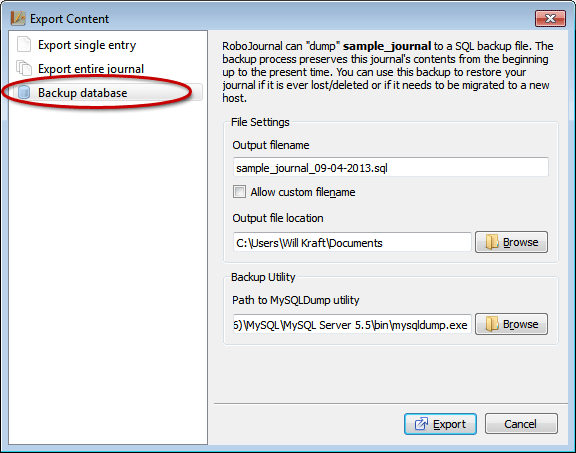
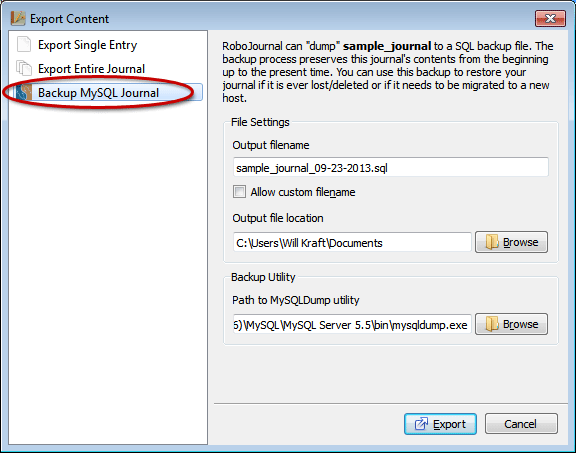
added new images to export.html

Changed region(s): [[0.0, 0.0927, 0.3438, 0.2472], [0.5625, 0.34, 0.5938, 0.4018], [0.7188, 0.9272, 0.75, 0.9581]]

diff --git a/doc/export.html b/doc/export.html
@@ -95,9 +95,9 @@ displayed with the selected entry already pre-loaded.</span></p>
 <p>Once invoked, the Export Content window is already configured to export the
 entry you previously selected on the RoboJournal main window: <img
 alt="Figure 3" src="img/screens/export_single.png" class="screenshot"
-height="453" width="576"><span class="caption">Figure 3: The <strong>Export
-single entry</strong> page allows you to export the current (selected) entry
-from the main window.</span></p>
+height="453" width="576"><span class="caption">Figure 3: The "Export Single
+Entry" page allows you to export the current (selected) entry from the main
+window.</span></p>
 
 <p>If you need to change any of the settings (including file type or export
 destination), you must do so before beginning the export operation. Unlike
@@ -115,8 +115,8 @@ RoboJournal main window.</p>
 
 <h3 id="L131">Single Export Options</h3>
 
-<p>The following table explains each option on the <strong>Export single
-entry</strong> page in greater detail:</p>
+<p>The following table explains each option on the Export Single Entry page in
+greater detail:</p>
 
 <table border="0">
   <col>
@@ -140,7 +140,7 @@ entry</strong> page in greater detail:</p>
         is created during the export operation. The <strong>HTML</strong>
         option produces a HTML4-compliant document that is viewable in any web
         browser. The <strong>Plain text</strong> option produces a text file
-        that is compatibe with any text editor (e.g. Vim, Notepad, Emacs,
+        that is compatible with any text editor (e.g. Vim, Notepad, Emacs,
         etc.). 
 
         <p>For best results, you should use HTML output because it preserves
@@ -162,7 +162,7 @@ entry</strong> page in greater detail:</p>
         title_entry date). You should leave this option enabled for best
         results because the resulting filename makes it easy to group exported
         entries from the same journal together and it provides a way for you to
-        easily reconize which journal an entry came from.</td>
+        easily recognize which journal an entry came from.</td>
     </tr>
     <tr>
       <td class="left">Allow custom filename</td>
@@ -192,11 +192,11 @@ destination folder bearing the name of the journal and the export date. </p>
     Entry List and click the <strong>Export Content</strong> toolbar button (as
     shown in Figure 1) to display the Export Content window. It does not matter
     which entry you choose if you intend to export the entire journal.</li>
-  <li>The Export Content window is displayed. Select the <strong>Export entire
-    journal</strong> list item on the left side of the Export Content window to
+  <li>The Export Content window is displayed. Select the <strong>Export Entire
+    Journal</strong> list item on the left side of the Export Content window to
     display the appropriate options:<img alt="Figure 4"
     src="img/screens/export_multi.png" class="screenshot" height="453"
-    width="576"><span class="caption">Figure 4: The "Export entire journal"
+    width="576"><span class="caption">Figure 4: The "Export Entire Journal"
     page allows you to output the contents of an entire journal in one simple
     process.</span></li>
   <li>Adjust the options in the Export Location, Export Format, and Export
@@ -239,7 +239,7 @@ file(s):</p>
         file(s() are created during the export operation. The
         <strong>HTML</strong> option produces HTML4-compliant document(s) that
         are viewable in any web browser. The <strong>Plain text</strong> option
-        produces text file(s) that are compatibe with any text editor (e.g.
+        produces text file(s) that are compatible with any text editor (e.g.
         Vim, Notepad, Emacs, etc.). 
 
         <p>For best results, you should use HTML output because it preserves
@@ -298,7 +298,7 @@ file(s):</p>
 </table>
 
 <p class="footnote">* RoboJournal locks these options (and ignores their
-current settings) while the <strong>Keep individual enteries separate</strong>
+current settings) while the <strong>Keep individual entries separate</strong>
 option is enabled because the affected options are non-applicable to multiple
 files.</p>
 
@@ -326,24 +326,30 @@ databases from backups but that feature is planned for future versions.</p>
     Entry List and click the <strong>Export Content</strong> toolbar button (as
     shown in Figure 1) to display the Export Content window. For this
     procedure, it does not matter which entry you choose from the list. </li>
-  <li>Click the <strong>Backup database</strong> list item on the left side of
-    the Export Content window to display the backup-related options (Figure 5):
-    <img style="width: 576px; height: 453px;" class="screenshot" alt="Figure x"
-    title="Figure x" src="img/screens/export_dump.png"><span
-    class="caption">Figure 5: Export content -- Backup features.</span></li>
+  <li>Click the <strong>Backup MySQL Journal</strong> list item on the left
+    side of the Export Content window to display the backup-related options
+    (Figure 5): <img style="width: 576px; height: 453px;" class="screenshot"
+    alt="Figure x" title="Figure x" src="img/screens/export_dump.png"><span
+    class="caption">Figure 5: The "Backup MySQL Journal" page provides an
+    easy-to-use interface for MySQLDump.</span></li>
   <li>Make all necessary changes. The default settings produce a .sql file
     bearing the journal name and the export date (i.e.
     sample_journal_09-04-2013)  that is saved in your home folder's Documents
-    sub-directory.</li>
-  <li>Click the <strong>Export</strong> button to begin the operation: (figure
-    6 goes here)<br>
-  </li>
+    sub-directory ("My Documents" on Windows XP and older). </li>
+  <li>Click the <strong>Export</strong> button to begin the operation: <img
+    alt="Figure 6" src="img/screens/export_dump2.png" width="576" height="453"
+    class="screenshot"><span class="caption">Figure 6: Click the
+    <strong>Export</strong> button when ready.</span></li>
   <li>Enter the root password for MySQL when prompted and click the
-    <strong>OK</strong> button to continue: RoboJournal requires root access
-    for MySQLDump operations because it is necessary to lock the database
-    tables (a function that is normally restricted to the root account)  in
-    order to prevent potential edit collisions, which are attempts by two or
-    more users to modify the database simulataneously. <br>
+    <strong>OK</strong> button to continue:<img alt="Figure 7"
+    src="img/screens/export_dump3.png" width="266" height="128"
+    class="screenshot"><span class="caption">Figure 7: Enter the current MySQL
+    server's root password to continue.</span> RoboJournal requires root-level
+    access for MySQLDump operations because it must lock the current journal's
+    tables (a function that is normally restricted to the root account) before
+    it can complete the dump operation. This prevents the possibility of edit
+    collisions, which are attempts by two or more users to modify the same
+    database simultaneously. <br>
   </li>
   <li>The Export Content window closes itself once the operation is
     complete.<br>
